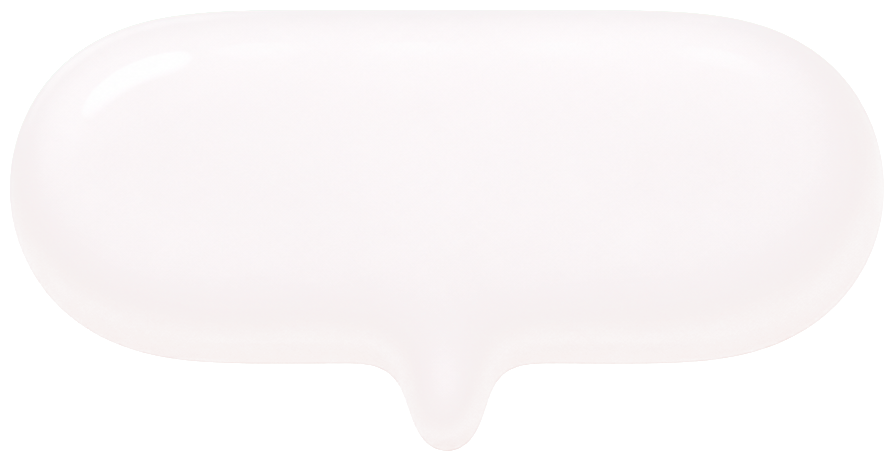
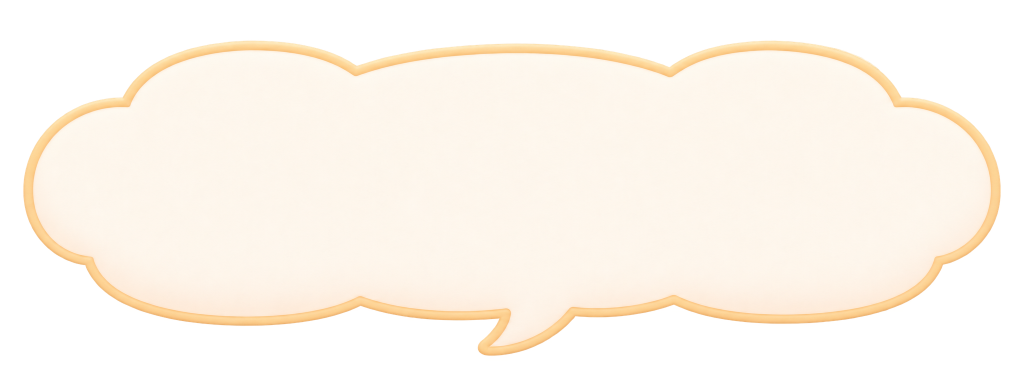
FateNavi2·3 인트로·CTA·카피를 다듬고 하단 버튼을 고정한다.
2는 로고·말풍선·양털 CTA를 갱신하고, 3은 어필 문구와 폼/무료 CTA 고정을 맞춘다.

Changed region(s): [[0.0, 0.0938, 0.9966, 0.9375]]

diff --git a/v2/src/components/newyear/fatenavi2.css b/v2/src/components/newyear/fatenavi2.css
@@ -62,17 +62,30 @@
   color: rgb(74 52 44 / 0.68);
 }
 
+/* 하단 CTA 일괄: 양털 PNG 버튼 */
 .ny-sheep .ny-btn,
 .ny-sheep .ny-cta {
+  height: auto;
+  min-height: 2.35rem;
+  aspect-ratio: 1024 / 250;
   border: none;
-  border-radius: 999px;
-  background: linear-gradient(180deg, #d86b5a 0%, #c45b4a 52%, #a64739 100%);
-  box-shadow:
-    inset 0 1px 0 rgb(255 255 255 / 0.28),
-    0 12px 24px rgb(164 71 57 / 0.28);
-  color: #fff8f2;
-  text-shadow: 0 1px 0 rgb(0 0 0 / 0.12);
+  border-radius: 0;
+  background-color: transparent;
+  background-image: url("/images/fatenavi2/cta-btn.png?v=1");
+  background-repeat: no-repeat;
+  background-position: center;
+  background-size: 100% 100%;
+  box-shadow: none;
   backdrop-filter: none;
+  -webkit-backdrop-filter: none;
+  color: #fff8f2;
+  font-family: var(--font-gothic), "Pretendard", sans-serif;
+  font-size: 17px;
+  font-weight: 800;
+  letter-spacing: -0.02em;
+  text-shadow:
+    0 1px 0 rgb(0 0 0 / 0.35),
+    0 2px 8px rgb(0 0 0 / 0.28);
 }
 
 .ny-sheep .ny-btn:hover,
@@ -81,12 +94,38 @@
   border-color: transparent;
 }
 
+.ny-sheep .ny-btn:active,
+.ny-sheep .ny-cta:active {
+  filter: brightness(0.96);
+  box-shadow: none;
+}
+
 .ny-sheep .ny-sticky-cta {
+  position: fixed;
+  bottom: 0;
+  left: 50%;
+  z-index: 40;
+  width: min(100%, var(--ny-col));
+  transform: translateX(-50%);
+  padding: 0.35rem 0.6rem calc(0.35rem + env(safe-area-inset-bottom));
   background: linear-gradient(180deg, transparent, rgb(252 244 233 / 0.96) 28%);
 }
 
 .ny-sheep:has(.ny-sheep-poster) .ny-sticky-cta {
   background: linear-gradient(180deg, rgb(252 198 184 / 0) 0%, rgb(254 228 212 / 0.92) 40%, #fee4d4 70%);
+}
+
+.ny-sheep .ny-form-bottom {
+  padding-bottom: 4rem;
+}
+
+.ny-sheep .ny-free {
+  padding-bottom: 4rem;
+}
+
+.ny-sheep .ny-sticky-cta .ny-poster-above {
+  color: #4a342c;
+  text-shadow: none;
 }
 
 .ny-sheep .ny-field,
@@ -242,7 +281,7 @@
   top: clamp(8.8rem, 24vh, 12.5rem);
   left: 50%;
   z-index: 2;
-  width: min(52vw, 11.5rem);
+  width: min(58vw, 12.5rem);
   margin: 0;
   transform: translateX(-50%);
   pointer-events: none;
@@ -257,18 +296,22 @@
 
 .ny-sheep-poster-bubble-text {
   position: absolute;
-  left: 50%;
-  top: 39%;
+  left: 10%;
+  right: 10%;
+  top: 22%;
+  bottom: 22%;
   z-index: 1;
+  display: flex;
+  align-items: center;
+  justify-content: center;
   margin: 0;
-  padding: 0 0.85rem;
-  transform: translate(-50%, -50%);
+  padding: 0;
   color: #4a2a24;
   font-family: var(--font-gothic), "Pretendard", sans-serif;
-  font-size: clamp(0.82rem, 3.2vw, 0.95rem);
+  font-size: clamp(0.88rem, 3.4vw, 1.02rem);
   font-weight: 700;
   letter-spacing: -0.02em;
-  line-height: 1.25;
+  line-height: 1.2;
   text-align: center;
   white-space: nowrap;
 }
@@ -484,7 +527,15 @@
   color: #5a2e28;
 }
 
+.ny-sheep .ny-sticky-cta .ny-poster-cta {
+  gap: 0.35rem;
+}
+
 .ny-sheep .ny-cta-bubble {
+  position: relative;
+  z-index: 2;
+  margin-top: 0.35rem;
+  margin-bottom: -0.15rem;
   background: rgb(255 255 255 / 0.72);
   color: rgb(42 33 24 / 0.88);
   box-shadow: 0 4px 14px rgb(42 33 24 / 0.1);

diff --git a/v2/src/components/newyear/FateNaviHome.tsx b/v2/src/components/newyear/FateNaviHome.tsx
@@ -28,14 +28,14 @@ export function FateNaviHome({ theme }: { theme: FateNaviThemeId }) {
             <div className="ny-sheep-poster-scrim" aria-hidden />
             {/* eslint-disable-next-line @next/next/no-img-element */}
             <img
-              src="/images/fatenavi2/mery-brand-logo.png"
+              src="/images/fatenavi2/mery-brand-logo.png?v=3"
               alt={config.brand}
               className="ny-sheep-poster-brand"
             />
             <div className="ny-sheep-poster-bubble">
               {/* eslint-disable-next-line @next/next/no-img-element */}
               <img
-                src="/images/fatenavi2/mery-bubble.png"
+                src="/images/fatenavi2/mery-bubble.png?v=2"
                 alt=""
                 className="ny-sheep-poster-bubble-img"
               />
@@ -177,9 +177,16 @@ export function FateNaviHome({ theme }: { theme: FateNaviThemeId }) {
           <div className="ny-hanji-below-block">
             <h2 className="ny-hanji-below-title">왜 운명내비인가</h2>
             <ul className="ny-hanji-below-bullets">
-              <li>듣기 좋은 덕담 대신, 흉운의 시기까지 가감 없이</li>
-              <li>돈이 터지는 시기 - 타이밍과 돌파구 제시</li>
-              <li>100년 인생 풀이와 구체적인 행동 지침 제시</li>
+              <li>
+                듣기 좋은 덕담 대신, <span className="ny-hanji-below-em">흉운의 시기</span>까지 가감
+                없이
+              </li>
+              <li>
+                <span className="ny-hanji-below-em">돈이 터지는 시기</span> - 타이밍과 돌파구 제시
+              </li>
+              <li>
+                <span className="ny-hanji-below-em">100년 인생 풀이</span>와 구체적인 행동 지침 제시
+              </li>
             </ul>
             <p className="ny-hanji-below-note">정통 명리학 기반 · 1:1 맞춤 풀이</p>
           </div>

diff --git a/v2/src/components/newyear/NewYearConcernForm.tsx b/v2/src/components/newyear/NewYearConcernForm.tsx
@@ -1,7 +1,8 @@
 "use client";
 
-import { useEffect, useState, type FormEvent } from "react";
+import { useEffect, useId, useState, type FormEvent } from "react";
 import { useRouter } from "next/navigation";
+import { StickyFormCta } from "@/components/newyear/StickyFormCta";
 import { loadPendingNewYear, savePendingNewYear } from "@/lib/client/inputStorage";
 import { type FateNaviThemeId, themeOf } from "@/lib/constants/fatenaviTheme";
 import { analysisInputSchema, type AnalysisInput } from "@/lib/validation/analysisInput";
@@ -47,15 +48,19 @@ export function NewYearConcernForm({ theme = "hanji" }: { theme?: FateNaviThemeI
     router.push(`${basePath}/analyzing`);
   };
 
+  const formId = useId();
+
   if (!ready) {
     return <div className="ny-form min-h-[40vh]" aria-hidden />;
   }
 
   return (
+    <>
     <form
+      id={formId}
       noValidate
       onSubmit={handleSubmit}
-      className={`ny-form flex flex-col gap-7 ${theme === "hanji" || theme === "premium" ? "ny-form-bottom" : "pb-24"}`}
+      className="ny-form ny-form-bottom flex flex-col gap-7"
     >
       <section className="flex flex-col gap-2.5">
         <p className="ny-form-label">직업/직무</p>
@@ -84,11 +89,12 @@ export function NewYearConcernForm({ theme = "hanji" }: { theme?: FateNaviThemeI
         />
       </section>
 
-      <div className="ny-sticky-cta">
-        <button type="submit" className="ny-btn" disabled={submitting}>
-          {submitting ? "잠시만요…" : "다음 단계로"}
-        </button>
-      </div>
     </form>
+    <StickyFormCta>
+      <button type="submit" form={formId} className="ny-btn" disabled={submitting}>
+        {submitting ? "사주 풀이 중" : "다음 단계로"}
+      </button>
+    </StickyFormCta>
+    </>
   );
 }

diff --git a/v2/src/components/newyear/fatenavi3.css b/v2/src/components/newyear/fatenavi3.css
@@ -58,6 +58,11 @@
   filter: drop-shadow(0 2px 10px rgb(0 0 0 / 0.45));
 }
 
+/* 무료 결과: 하단 고정 PNG CTA에 가리지 않게 */
+.ny-hanji .ny-free {
+  padding-bottom: 5.5rem;
+}
+
 .ny-hanji .ny-en,
 .ny-hanji .ny-kicker {
   color: #c9a86a;
@@ -142,13 +147,13 @@
   margin-top: -0.1rem;
 }
 
-/* 정보입력 스크롤: FateNavi4와 동일 — 하단 여백 고정, 짧은 화면에서도 축소하지 않음 */
+/* 정보입력: PNG 버튼 하단 빈 여백을 잘라 쓰므로 스크롤 여백도 줄임 */
 .ny-hanji .ny-form-bottom {
-  padding-bottom: 7.5rem;
+  padding-bottom: 4.25rem;
 }
 
 .ny-hanji.ny-ink .ny-main {
-  padding: 0.85rem 1rem 5.5rem;
+  padding: 0.5rem 1rem 1rem;
 }
 
 .ny-hanji .ny-chapter-num {
@@ -215,13 +220,18 @@
   transform: rotate(-8deg);
 }
 
+/* PNG 버튼 하단 투명 여백을 뷰포트 밖으로 내려 스크롤을 막음 */
 .ny-hanji .ny-sticky-cta {
+  position: fixed;
   bottom: -1.55rem;
+  left: 50%;
+  z-index: 40;
+  width: min(100%, var(--ny-col));
+  transform: translateX(-50%);
   padding: 0 0.3rem 0;
   background: linear-gradient(180deg, transparent, rgb(26 20 14 / 0.97) 28%);
 }
 
-/* CTA PNG가 세로로 커서, 말풍선이 빈 여백 위에 뜸 → 시각 버튼에 붙인다 */
 .ny-hanji .ny-sticky-cta .ny-poster-cta {
   gap: 0;
 }
@@ -575,12 +585,17 @@
 }
 
 .ny-hanji-below-bullets li {
-  color: #f6ecd8;
+  color: rgb(246 236 216 / 0.78);
   font-size: 0.92rem;
-  font-weight: 600;
+  font-weight: 500;
   letter-spacing: -0.01em;
   text-align: center;
-  line-height: 1.4;
+  line-height: 1.6;
+}
+
+.ny-hanji-below-em {
+  color: #e24a3a;
+  font-weight: inherit;
 }
 
 .ny-hanji-below-bullets li::before {

diff --git a/v2/src/components/newyear/NewYearForm.tsx b/v2/src/components/newyear/NewYearForm.tsx
@@ -1,7 +1,8 @@
 "use client";
 
-import { useState, type FormEvent } from "react";
+import { useId, useState, type FormEvent } from "react";
 import { useRouter } from "next/navigation";
+import { StickyFormCta } from "@/components/newyear/StickyFormCta";
 import { savePendingNewYear } from "@/lib/client/inputStorage";
 import { type FateNaviThemeId, themeOf } from "@/lib/constants/fatenaviTheme";
 import {
@@ -134,12 +135,15 @@ export function NewYearForm({ theme = "hanji" }: { theme?: FateNaviThemeId }) {
   };
 
   const unknown = values.birthTimeUnknown;
+  const formId = useId();
 
   return (
+    <>
     <form
+      id={formId}
       noValidate
       onSubmit={handleSubmit}
-      className={`ny-form flex flex-col gap-7 ${theme === "hanji" || theme === "premium" ? "ny-form-bottom" : "pb-24"}`}
+      className="ny-form ny-form-bottom flex flex-col gap-7"
     >
       <section className="flex flex-col gap-2.5">
         <p className="ny-form-label">이름</p>
@@ -287,11 +291,12 @@ export function NewYearForm({ theme = "hanji" }: { theme?: FateNaviThemeId }) {
         {errors.birthTime ? <p className="ny-form-error">{errors.birthTime}</p> : null}
       </section>
 
-      <div className="ny-sticky-cta">
-        <button type="submit" className="ny-btn" disabled={submitting}>
-          {submitting ? "사주를 정리하는 중…" : "다음 단계로"}
-        </button>
-      </div>
     </form>
+    <StickyFormCta>
+      <button type="submit" form={formId} className="ny-btn" disabled={submitting}>
+        {submitting ? "사주 입력 중" : "다음 단계로"}
+      </button>
+    </StickyFormCta>
+    </>
   );
 }

diff --git a/v2/src/components/newyear/NewYearResultScreen.tsx b/v2/src/components/newyear/NewYearResultScreen.tsx
@@ -4,6 +4,7 @@ import { PriceCompare } from "@/components/newyear/PriceCompare";
 import { RouteTimeline } from "@/components/newyear/RouteTimeline";
 import { SectionHeader } from "@/components/newyear/SectionHeader";
 import { SegmentCard } from "@/components/newyear/SegmentCard";
+import { StickyFormCta } from "@/components/newyear/StickyFormCta";
 import { type FateNaviThemeId, themeOf } from "@/lib/constants/fatenaviTheme";
 import {
   NEWYEAR_CHAPTERS,
@@ -418,7 +419,7 @@ export function NewYearResultScreen({
           <p className="ny-body">{config.slogan}</p>
         </section>
       </div>
-      {sticky ? <div className="ny-sticky-cta">{sticky}</div> : null}
+      {sticky ? <StickyFormCta>{sticky}</StickyFormCta> : null}
     </div>
   );
 }

diff --git a/v2/src/components/newyear/StickyFormCta.tsx b/v2/src/components/newyear/StickyFormCta.tsx
@@ -1,0 +1,16 @@
+"use client";
+
+import { useEffect, useState, type ReactNode } from "react";
+import { createPortal } from "react-dom";
+
+/** 정보입력 CTA를 .ny 루트에 붙여 인트로처럼 뷰포트 하단에 고정 */
+export function StickyFormCta({ children }: { children: ReactNode }) {
+  const [host, setHost] = useState<Element | null>(null);
+
+  useEffect(() => {
+    setHost(document.querySelector(".ny"));
+  }, []);
+
+  if (!host) return null;
+  return createPortal(<div className="ny-sticky-cta">{children}</div>, host);
+}

diff --git a/v2/src/lib/constants/fatenaviTheme.ts b/v2/src/lib/constants/fatenaviTheme.ts
@@ -21,7 +21,7 @@ export const FATENAVI_THEMES: Record<FateNaviThemeId, FateNaviTheme> = {
     brand: "인생 레벨업 가이드북",
     orderName: "인생 레벨업 가이드북",
     slogan: "어휴, 올해도 버티느라 고생 많았어!",
-    ctaStart: "내 레벨업 시작하기",
+    ctaStart: "2027년 레벨업 하기",
     introNote: "",
   },
   hanji: {
